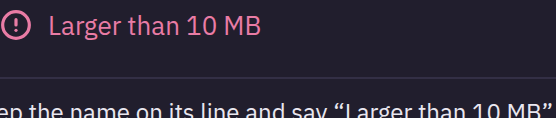
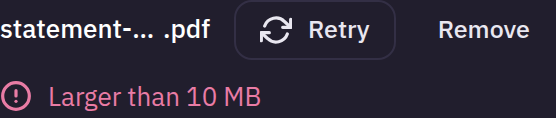
Round the filter row height up to a whole pixel
At a coarse pointer the row height was 39.16 px. That fraction moved a scrolled
table below the toolbar to whole-pixel edges, so each company link in the
finance comparison lost a row of pixels to its neighbour. The height now rounds
up to 40 px. The 390 captures are new, and the file drop before capture now
shows the row with Retry and Remove.

Part of #768

Changed region(s): [[0.0, 0.6864, 1.0, 1.0], [0.0, 0.0763, 0.6727, 0.3814], [0.7644, 0.178, 0.9784, 0.3305]]

diff --git a/src/styles/filter-bar.test.js b/src/styles/filter-bar.test.js
@@ -361,3 +361,16 @@ test('a control row: the walk refuses each box that keeps its own height', () =>
       `without \`${rule}\` the walk still passes ${control}`);
   }
 });
+
+/**
+ * Rule: the row height is a whole pixel. A fractional line moved a scrolled table below
+ * the toolbar off the pixel its hit test uses, so a link took a row of its neighbour's
+ * pixels. Read as text; the hit test itself is the tap zone gate's, in a browser. #768
+ */
+test('the filter row height rounds up to a whole pixel', () => {
+  const whole = (css) => /--ui-filter-row-h:\s*round\(up,[\s\S]*?,\s*1px\)\s*;/.test(css);
+  assert.ok(whole(BAR), '--ui-filter-row-h is not rounded up to 1px');
+  const mutant = BAR.replace(/round\(up, (calc\([^;]*\)), 1px\)/, '$1');
+  assert.notEqual(mutant, BAR, 'the mutation found no round() to remove');
+  assert.ok(!whole(mutant), 'the check passes a fractional row height');
+});

diff --git a/src/styles/filter-bar.css b/src/styles/filter-bar.css
@@ -131,8 +131,9 @@
 
 /* A chip's height — a remove mark's line box, padding and border — named so every chip,
    with or without a mark, and a control on a line of its own stand as tall. A toolbar
-   names it too, for the control at the end of a split row. */
-.ui-filter-bar, .ui-toolbar { --ui-filter-row-h: calc(2px + 2 * var(--space-1) + var(--leading-normal) * var(--text-lg)); }
+   names it too, for the control at the end of a split row. Rounded up to a whole pixel:
+   a fractional line moved a scrolled table below it off the pixel its hit test uses. #768 */
+.ui-filter-bar, .ui-toolbar { --ui-filter-row-h: round(up, calc(2px + 2 * var(--space-1) + var(--leading-normal) * var(--text-lg)), 1px); }
 
 /* A chip's neighbour takes the chip's corner, that height and edge, but not its painted fill:
    the trigger's own edge can differ from the row's, while its --surface made the

diff --git a/docs/evidence/768-row-align/index.md b/docs/evidence/768-row-align/index.md
@@ -8,19 +8,21 @@ ebe17c8b. "After" is this branch. Each value is the control's height `h` and the
 | --- | --- | --- | --- | --- |
 | filter-bar-before-1280-light.png | Dense tables, filter bar | light | 1280 | field h 45, cy 22.50. Status chip h 39.16, cy 19.58 |
 | filter-bar-after-1280-light.png | Dense tables, filter bar | light | 1280 | field h 45, cy 22.50. Status chip h 45, cy 22.50 |
-| filter-bar-after-390-dark.png | Dense tables, filter bar | dark | 390 | field h 45, cy 22.50, alone on line 1. Status chip h 39.16, cy 74.58, alone on line 2 |
+| filter-bar-after-390-dark.png | Dense tables, filter bar | dark | 390 | field h 45, cy 22.50, alone on line 1. Status chip h 40, cy 75, alone on line 2 |
 | toolbar-before-1280-light.png | SearchField, Toolbar | light | 1280 | field h 45, cy 22.50. Status and Period chips h 39.16, cy 19.58. View seg h 42, cy 21.00 |
 | toolbar-after-1280-light.png | SearchField, Toolbar | light | 1280 | field, chips and seg h 45, cy 22.50 |
 | toolbar-before-390-dark.png | SearchField, Toolbar | dark | 390 | one kind of control on each line. Field h 45. Chips h 39.16, cy 74.58. Seg h 42, cy 125.16 |
-| toolbar-after-390-dark.png | SearchField, Toolbar | dark | 390 | the same as before |
+| toolbar-after-390-dark.png | SearchField, Toolbar | dark | 390 | one kind of control on each line. Field h 45. Chips h 40, cy 75. Seg h 42, cy 126 |
 | finance-report-before-1280-light.png | Finance report, toolbar | light | 1280 | field and Export h 45, cy 22.50. Period seg h 42, cy 21.00. Chips h 39.16, cy 19.58 |
 | finance-report-after-1280-light.png | Finance report, toolbar | light | 1280 | field, Export, seg and chips h 45, cy 22.50 |
 | finance-report-before-390-dark.png | Finance report, toolbar | dark | 390 | chips h 39.16, cy 126.58. Export h 36, cy 125.00 |
-| finance-report-after-390-dark.png | Finance report, toolbar | dark | 390 | chips and Export h 39.16, cy 126.58 |
+| finance-report-after-390-dark.png | Finance report, toolbar | dark | 390 | chips and Export h 40, cy 127 |
 | file-drop-before-1280-light.png | File drop, error row actions | light | 1280 | Retry h 30, cy 15. Remove h 29, cy 15 |
 | file-drop-after-1280-light.png | File drop, error row actions | light | 1280 | Retry and Remove h 30, cy 15 |
 | file-drop-before-390-dark.png | File drop, error row actions | dark | 390 | Retry h 30, cy 15. Remove h 29, cy 15 |
 | file-drop-after-390-dark.png | File drop, error row actions | dark | 390 | Retry and Remove h 30, cy 15 |
 
-The Dense tables row at 390 does not change, so it has no "before" capture. The Remove button has
-no edge or fill at rest, so its 1px change does not show in the file drop pictures.
+At 390 the chip height rounds up from 39.16 to a whole 40 px. So the Dense tables chip grows
+0.84 px, and that row has no "before" capture. The fraction moved a scrolled table below the toolbar
+off the pixel its hit test uses. The Remove button has no edge or fill at rest, so its 1px change
+does not show in the file drop pictures.
